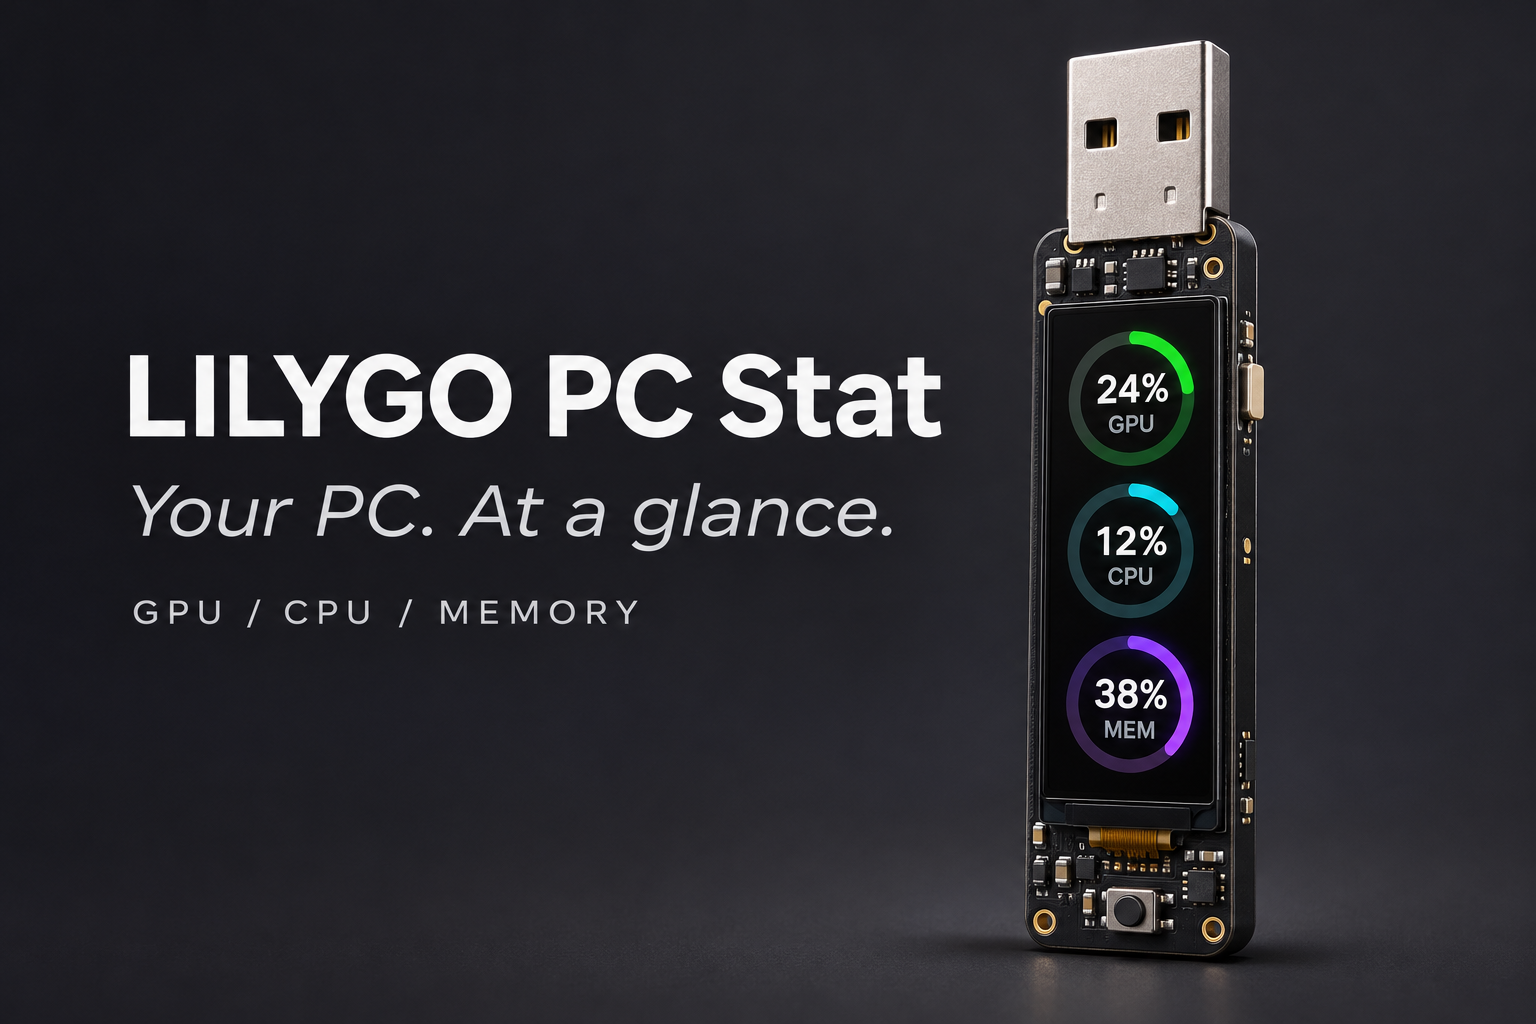
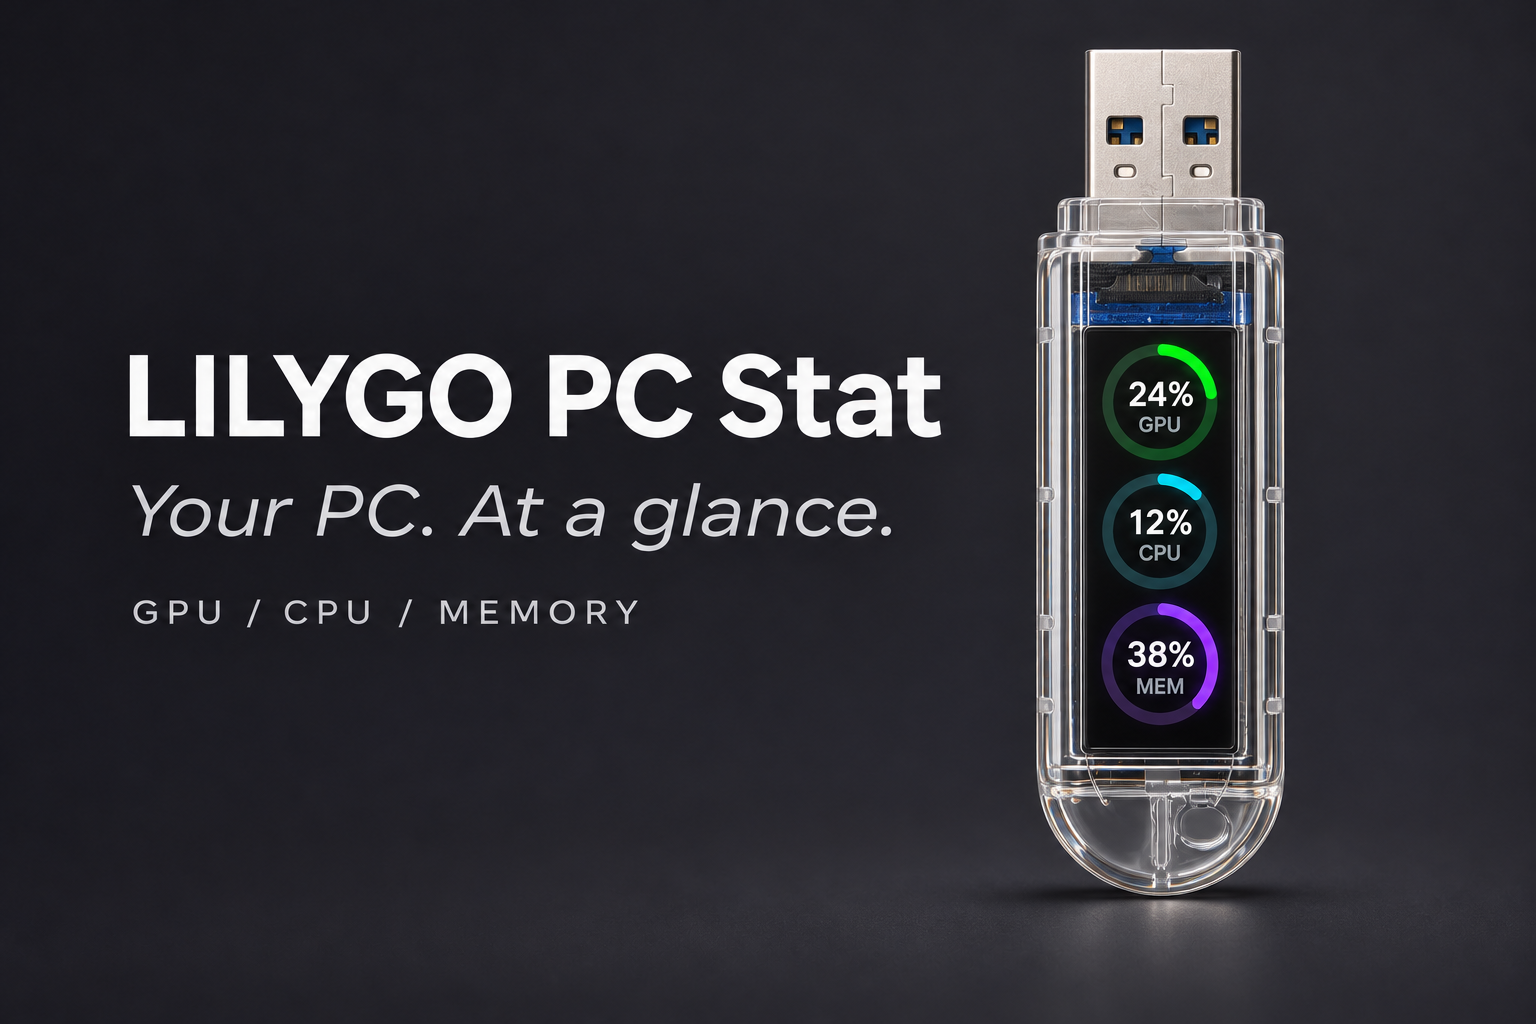
Match README artwork to the clear-case T-Dongle-S3

Changed region(s): [[0.6562, 0.0312, 0.8438, 1.0]]

diff --git a/docs/hero-prompt.md b/docs/hero-prompt.md
@@ -1,24 +1,28 @@
-# README banner
+# README banner generation
 
-Generated using the built-in imagegen tool. The README labels this as an
-illustration, rather than a photograph or an exact mechanical drawing.
+Created with the built-in imagegen tool. This is an illustrative rendering,
+not an actual device photograph. Reference inputs were the initial project
+banner and the user-supplied photograph of the transparent-case T-Dongle-S3.
+The reference photograph is not redistributed in this repository.
 
-Final selected prompt:
+Final edit prompt:
 
-> Use case: product-mockup. Create a polished wide GitHub README hero illustration
-> for the open-source project 'LILYGO PC Stat'. An accurate compact LILYGO
-> T-Dongle-S3 USB-A stick, slim black PCB/enclosure with a silver USB-A male plug
-> and a narrow 0.96-inch LCD on its face, shown upright in a tasteful three-quarter
-> product view against a charcoal background. Its LCD is PORTRAIT with exactly
-> THREE circular progress rings vertically stacked: green top ring with large
-> '24%' above small 'GPU' inside, cyan middle ring with large '12%' above small
-> 'CPU' inside, violet bottom ring with large '38%' above small 'MEM' inside.
-> All display text upright in the viewer's orientation, readable, ample margin.
-> This is a small slim USB dongle, not a large monitor or handheld computer.
-> On the left, restrained elegant typography exactly 'LILYGO PC Stat' and below
-> it 'Your PC. At a glance.' with a small line 'GPU / CPU / MEMORY'. Focus on
-> precise materials, subtle PCB detail and restrained screen glow. Wide banner
-> composition 1536x1024 or similar, designed to crop safely into wide GitHub README.
-> No fake brand logos, no additional gauges, no laptop, no hands, no cables.
-> This is an illustrative product rendering rather than a photograph of actual
-> installed hardware.
+> Edit the FIRST image (the dark README banner). The SECOND image is the hardware
+> reference and MUST determine the physical product shape. Replace the inaccurate
+> bare black PCB dongle in the banner with a faithful product rendering of the
+> second image's REAL LILYGO T-Dongle-S3 in its transparent, glossy, clear plastic
+> capsule enclosure. IMPORTANT ORIENTATION: the second reference photo is upside
+> down for our intended use; rotate the physical dongle 180 degrees so its exposed
+> silver USB-A male connector is at the TOP, the transparent rounded capsule end
+> at the BOTTOM, and its rectangular black LCD in the clear shell below the USB plug.
+> Keep slim realistic capsule proportions, rounded transparent plastic edges,
+> visible subtle blue PCB near the connector, no invented exposed black board or
+> separate push button sticking out. The LCD content itself must be UPRIGHT to the
+> viewer with exactly THREE stacked circular gauges: top green '24%' above 'GPU',
+> middle cyan '12%' above 'CPU', bottom violet '38%' above 'MEM'. Each progress ring
+> begins at exactly 12 o'clock and fills clockwise. Preserve the first banner's
+> charcoal backdrop, wide composition, left text exactly 'LILYGO PC Stat',
+> 'Your PC. At a glance.', and 'GPU / CPU / MEMORY'. Use the first banner's lighting
+> and refined product illustration finish, faithfully showing the clear enclosure
+> from the second reference. Nothing from the second image's white background
+> should remain. This is an illustrative render, not a claimed hardware photograph.
